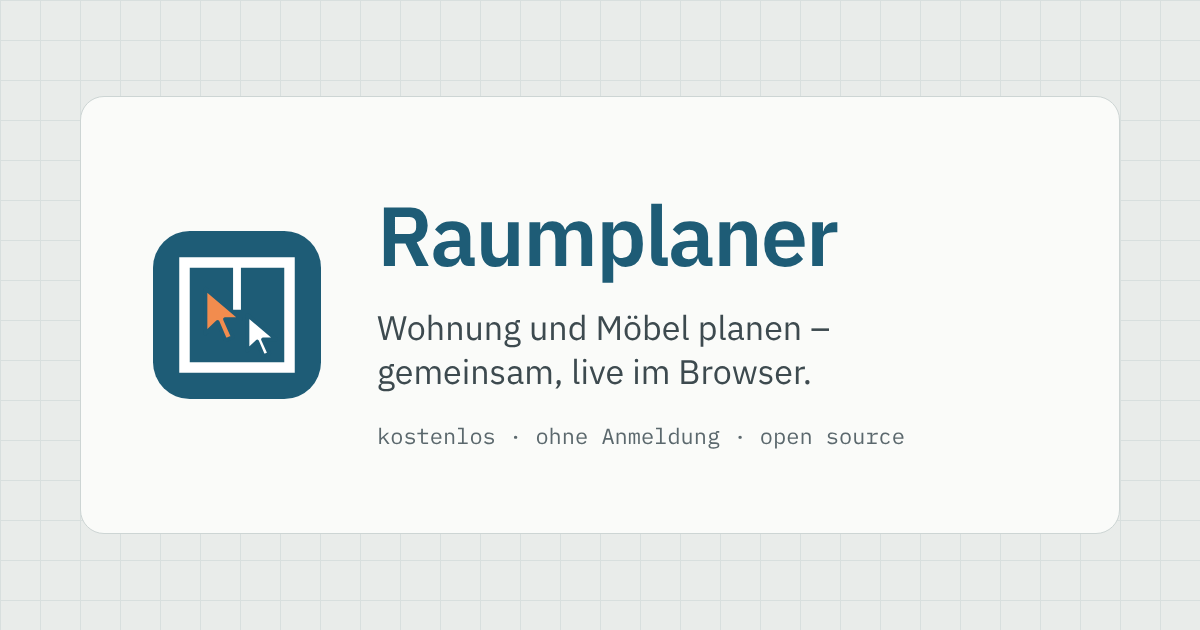
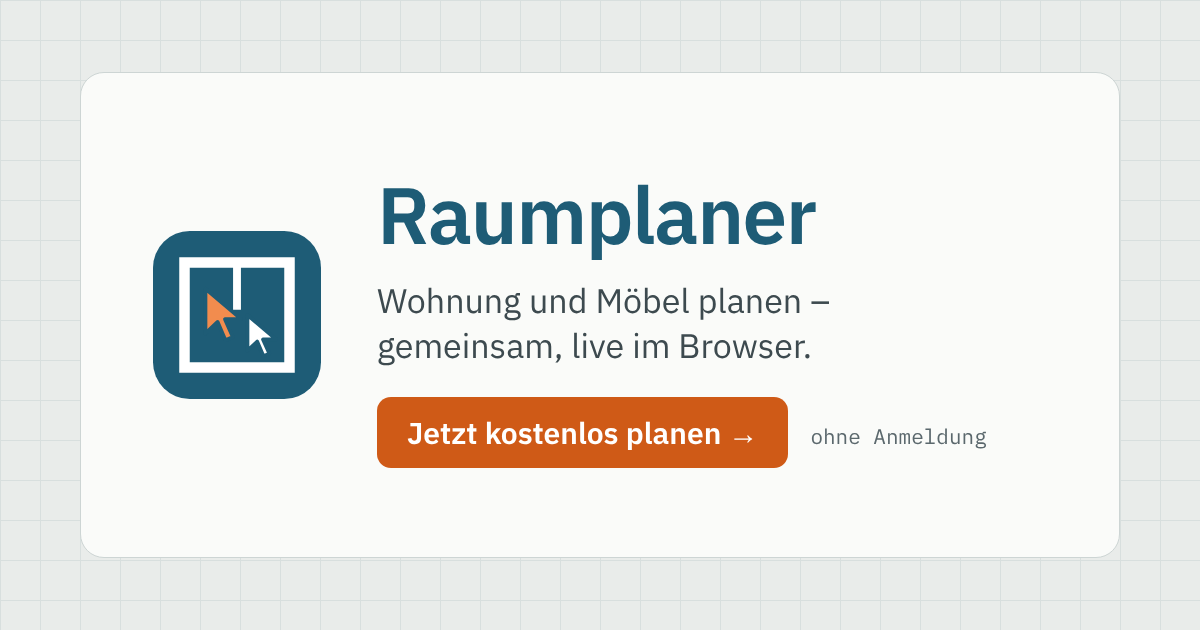
v2.4.1: SEO-Feinschliff
Titel 52 statt 65 Zeichen, Beschreibung 131 statt 163 Zeichen,
Vorschaubild mit Handlungsaufforderung (neue Bild-URL, damit Messenger es neu laden).

Claude-Session: https://claude.ai/code/session_01V19wNw5YgYxbQ6AX3AtJbn

Changed region(s): [[0.3083, 0.3016, 0.8325, 0.754]]

diff --git a/public/index.html b/public/index.html
@@ -1,18 +1,18 @@
 <!doctype html><html lang="de"><head><meta charset="utf-8"><meta name=viewport content="width=device-width,initial-scale=1,viewport-fit=cover">
-<title>Raumplaner – Wohnung & Möbel online planen, gemeinsam in Echtzeit</title>
-<meta name="description" content="Kostenloser Raumplaner im Browser: Grundriss zeichnen, Möbel, Fenster und Türen maßstabsgetreu platzieren und live mit anderen planen. Ohne Anmeldung, open source.">
+<title>Raumplaner – Wohnung & Möbel online gemeinsam planen</title>
+<meta name="description" content="Kostenloser Raumplaner im Browser: Grundriss zeichnen, Möbel maßstabsgetreu platzieren und live mit anderen planen. Ohne Anmeldung.">
 <link rel="canonical" href="__ORIGIN__/">
 <meta property="og:type" content="website">
 <meta property="og:site_name" content="Raumplaner">
 <meta property="og:title" content="Raumplaner – Wohnung & Möbel online planen">
 <meta property="og:description" content="Grundriss zeichnen, Möbel maßstabsgetreu platzieren und live gemeinsam planen. Kostenlos, ohne Anmeldung.">
 <meta property="og:url" content="__ORIGIN__/">
-<meta property="og:image" content="__ORIGIN__/og-image.png">
+<meta property="og:image" content="__ORIGIN__/og-image.png?v=2">
 <meta property="og:image:width" content="1200"><meta property="og:image:height" content="630">
 <meta property="og:image:alt" content="Raumplaner – Wohnung und Möbel planen, gemeinsam live im Browser">
 <meta property="og:locale" content="de_DE">
 <meta name="twitter:card" content="summary_large_image">
-<script type="application/ld+json">{"@context":"https://schema.org","@type":"WebApplication","name":"Raumplaner","url":"__ORIGIN__/","image":"__ORIGIN__/og-image.png","description":"Kostenloser Raumplaner im Browser: Grundriss zeichnen, Möbel maßstabsgetreu platzieren und live gemeinsam planen.","applicationCategory":"DesignApplication","operatingSystem":"Any (Browser)","inLanguage":["de","en","fr","es","it","nl"],"isAccessibleForFree":true,"offers":{"@type":"Offer","price":"0","priceCurrency":"EUR"},"codeRepository":"https://github.com/jami100YT/roomplanner"}</script>
+<script type="application/ld+json">{"@context":"https://schema.org","@type":"WebApplication","name":"Raumplaner","url":"__ORIGIN__/","image":"__ORIGIN__/og-image.png?v=2","description":"Kostenloser Raumplaner im Browser: Grundriss zeichnen, Möbel maßstabsgetreu platzieren und live gemeinsam planen.","applicationCategory":"DesignApplication","operatingSystem":"Any (Browser)","inLanguage":["de","en","fr","es","it","nl"],"isAccessibleForFree":true,"offers":{"@type":"Offer","price":"0","priceCurrency":"EUR"},"codeRepository":"https://github.com/jami100YT/roomplanner"}</script>
 <link rel="icon" href="/favicon.svg" type="image/svg+xml">
 <link rel="icon" href="/favicon-32.png" sizes="32x32" type="image/png">
 <link rel="apple-touch-icon" href="/apple-touch-icon.png">
@@ -1685,7 +1685,7 @@ const COLORS_ME=['#cf5a17','#1e5c76','#8a3fb0','#2f8a4f','#c0336b','#b08a12','#2
 // Damit kann der Server eine hängende alte Verbindung derselben Seite sofort entfernen.
 const SID=Math.random().toString(36).slice(2,12)+Math.random().toString(36).slice(2,8);
 /* ---------- Version ---------- */
-const APP_VERSION='2.4.0'; // bei jedem Update zusammen mit package.json erhöhen
+const APP_VERSION='2.4.1'; // bei jedem Update zusammen mit package.json erhöhen
 let updShown=false,updLast=0;
 async function checkUpdate(force){
   if(updShown||(!force&&Date.now()-updLast<5*60*1000))return;updLast=Date.now();
